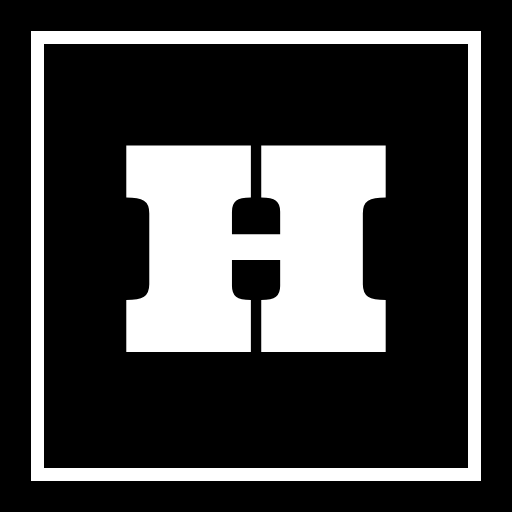
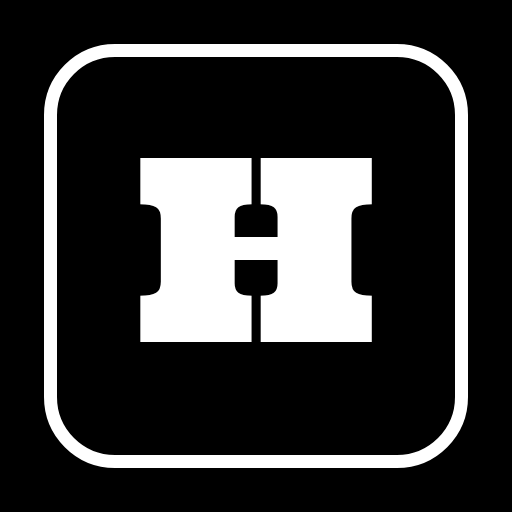
Ikona: ramka zaokrąglona zgodnie z maską iOS
Claude-Session: https://claude.ai/code/session_01RBnwKhqbp7zbpou1VvHAcs

Changed region(s): [[0.0625, 0.0625, 0.9375, 0.9375], [0.2188, 0.2812, 0.7812, 0.6875]]

diff --git a/index.html b/index.html
@@ -7,8 +7,8 @@
   <meta name="description" content="Tygodniowy tracker nawyków">
   <meta name="theme-color" content="#000000">
   <link rel="manifest" href="manifest.webmanifest">
-  <link rel="icon" href="icons/icon-192.png" type="image/png">
-  <link rel="apple-touch-icon" href="icons/apple-touch-icon.png">
+  <link rel="icon" href="icons/icon-192.png?v=2" type="image/png">
+  <link rel="apple-touch-icon" href="icons/apple-touch-icon.png?v=2">
   <meta name="apple-mobile-web-app-capable" content="yes">
   <meta name="mobile-web-app-capable" content="yes">
   <meta name="apple-mobile-web-app-status-bar-style" content="default">

diff --git a/sw.js b/sw.js
@@ -1,7 +1,7 @@
 // Service worker: aplikacja działa offline.
 // Pliki strony: najpierw sieć (zawsze świeża wersja), w razie braku — kopia z pamięci.
 // Biblioteki Firebase z gstatic: najpierw pamięć (wersja jest przypięta, więc się nie zmienia).
-const CACHE = "habits-v12";
+const CACHE = "habits-v13";
 const SHELL = [
   "./", "index.html", "css/styles.css", "css/themes.css", "css/motion.css", "manifest.webmanifest",
   "js/app.js", "js/dates.js", "js/i18n.js", "js/themes.js", "js/firebase-config.js", "js/store-local.js", "js/store-firebase.js",
